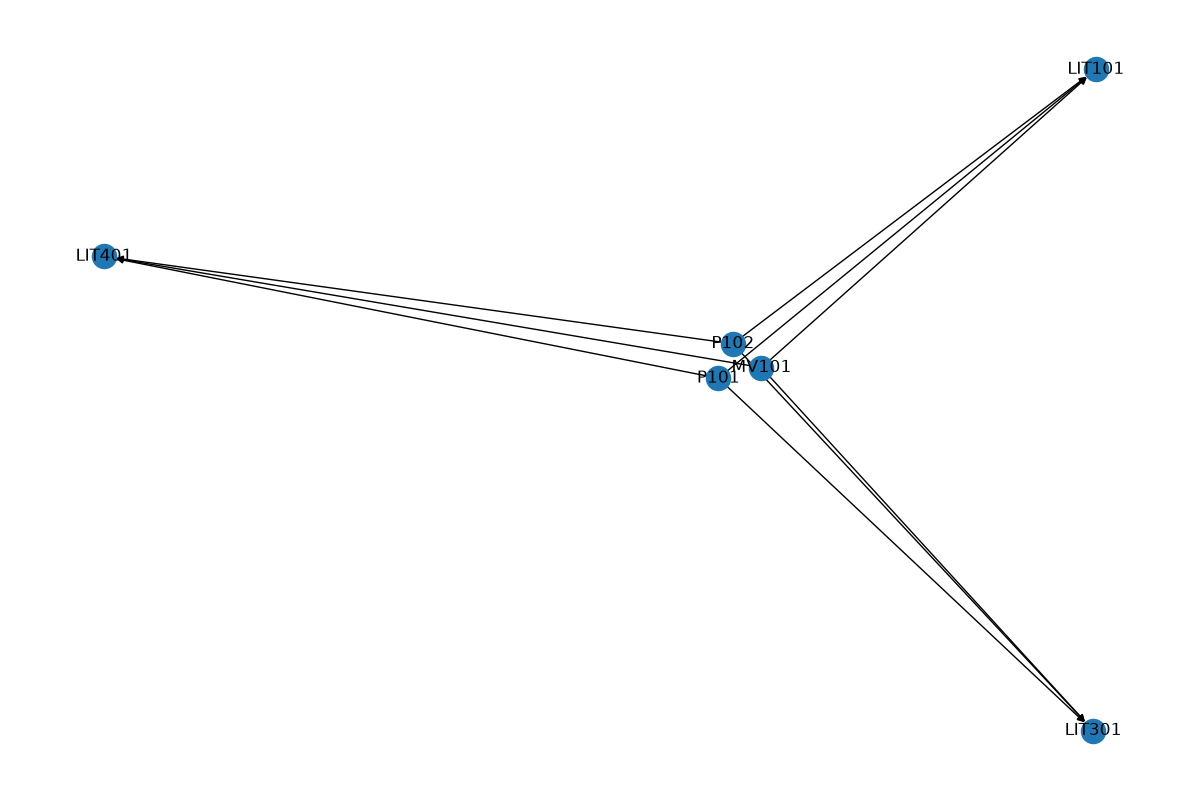
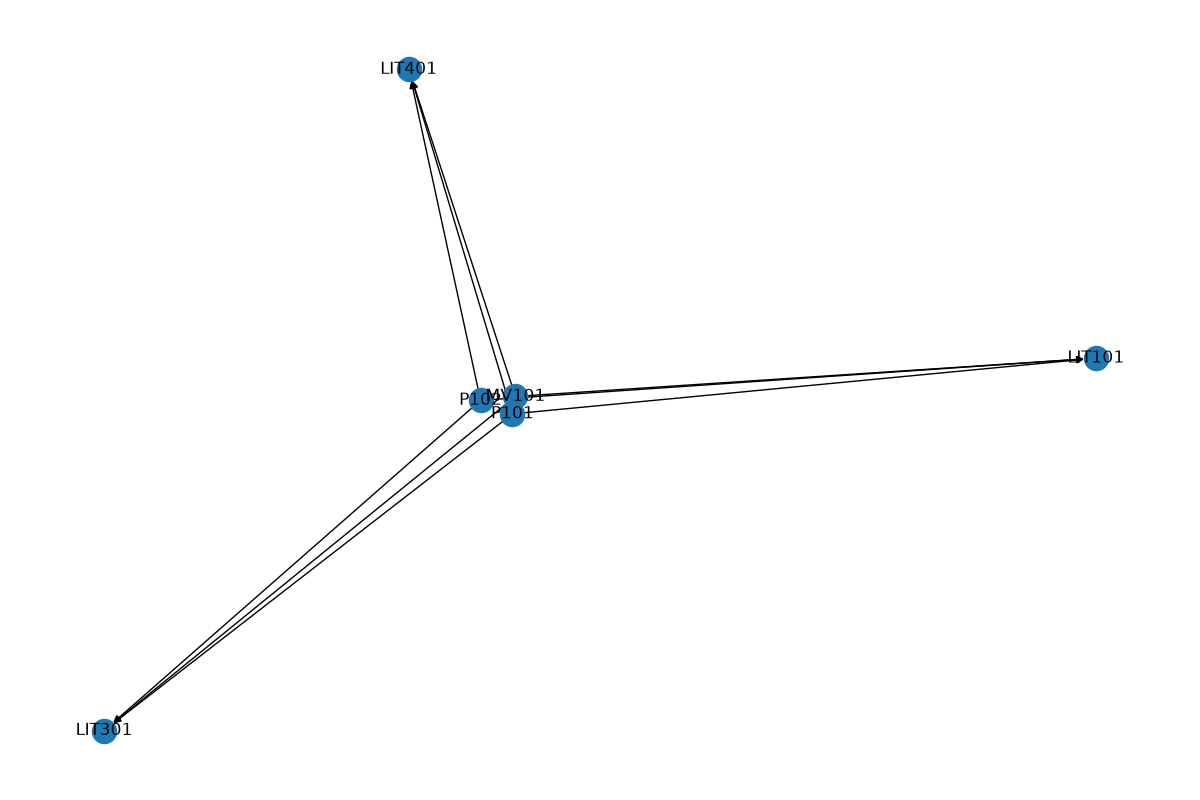
v1 engine done

diff --git a/src/relationship_confidence.py b/src/relationship_confidence.py
@@ -1,0 +1,112 @@
+import pandas as pd
+from asset_classifier import classify_asset
+
+def get_transition_rows(df, asset):
+
+    states = df[asset]
+
+    previous_states = states.shift(1)
+
+    transitions = states != previous_states
+
+    transition_rows = df.index[
+        transitions
+    ].tolist()
+
+    return transition_rows
+
+
+def count_responses(df, source_asset, target_asset, window=5):
+
+    transition_rows = get_transition_rows(df, source_asset)
+
+    if len(transition_rows) == 0:
+        return {
+            "responses": 0,
+            "confidence": 0
+        }
+
+    responses = 0
+
+    for row in transition_rows:
+
+        if row + window >= len(df):
+            continue
+
+        before = df.iloc[row][target_asset]
+
+        after = df.iloc[
+            row + window
+        ][target_asset]
+
+        if before != after:
+            responses += 1
+
+    confidence = (responses / len(transition_rows)) * 100
+
+    return {
+        "responses": responses,
+        "confidence": confidence
+    }
+
+
+def discover_confidence_relationships(df, source_asset, assets, window=5):
+
+    relationships = []
+
+    for asset in assets:
+
+        if asset == source_asset:
+            continue
+
+        result = count_responses(df, source_asset, asset, window)
+
+        relationships.append({
+            "source": source_asset,
+            "target": asset,
+            "responses": result["responses"],
+            "confidence": result["confidence"]
+        })
+
+    report = pd.DataFrame(relationships)
+
+    report = report.sort_values(
+        by="confidence",
+        ascending=False
+    )
+
+    return report
+
+
+def get_assets_in_same_stage(source_asset, assets, max_stage_difference=1):
+    source_info = classify_asset(source_asset)
+
+    source_stage = source_info[
+        "asset_stage"
+    ]
+
+    related_assets = []
+
+    for asset in assets:
+
+        if asset == source_asset:
+            continue
+
+        asset_info = classify_asset(
+            asset
+        )
+
+        asset_stage = asset_info[
+            "asset_stage"
+        ]
+
+        stage_difference = abs(
+            asset_stage - source_stage
+        )
+
+        if stage_difference <= max_stage_difference:
+            related_assets.append(
+                asset
+            )
+
+    return related_assets

diff --git a/src/historian_intelligence.py b/src/historian_intelligence.py
@@ -1,0 +1,82 @@
+from asset_classifier import classify_asset
+from asset_profiler import profile_asset
+
+
+def get_related_assets(
+    relationship_report,
+    asset,
+    top_n=3
+):
+    related = relationship_report[
+        relationship_report["source"] == asset
+    ]
+
+    return related.head(top_n)[
+        "target"
+    ].tolist()
+
+
+def build_asset_intelligence(
+    df,
+    asset,
+    relationship_report,
+    threshold_report
+):
+    asset_info = classify_asset(asset)
+
+    profile_info = profile_asset(
+        df,
+        asset
+    )
+
+    threshold_info = get_threshold_knowledge(threshold_report, asset)
+
+    related_assets = get_related_assets(
+        relationship_report,
+        asset
+    )
+
+    return {
+        "asset": asset,
+        "asset_type": asset_info["asset_type"],
+        "asset_stage": asset_info["asset_stage"],
+        **profile_info,
+        **threshold_info,
+        "related_assets": related_assets
+    }
+
+
+def build_plant_intelligence(df, assets, relationship_report,threshold_report):
+    reports = []
+
+    for asset in assets:
+        report = build_asset_intelligence(df, asset, relationship_report, threshold_report)
+        reports.append(report)
+
+    return reports
+
+def get_threshold_knowledge(threshold_report, asset):
+
+    row = threshold_report[
+        threshold_report["Actuator"] == asset
+    ]
+
+    if row.empty:
+        return {
+            "start_threshold": None,
+            "stop_threshold": None,
+            "process_variable": None
+        }
+
+    row = row.iloc[0]
+
+    return {
+        "process_variable":
+            row["Process Variable"],
+
+        "start_threshold":
+            row["Fall Median"],
+
+        "stop_threshold":
+            row["Rise Median"]
+    }

diff --git a/src/main.py b/src/main.py
@@ -19,6 +19,10 @@ from process_graph import (
     save_process_graph
 )
 
+from historian_intelligence import *
+
+from relationship_confidence import *
+
 # ==================================
 # LOAD DATASET
 # ==================================
@@ -115,6 +119,24 @@ master_report.to_csv(
     index=False
 )
 
+print("\nGenerating Historian Intelligence Report...")
+
+plant_intelligence = build_plant_intelligence(
+    df,
+    assets,
+    master_report,
+    threshold_report
+)
+
+pd.DataFrame(
+    plant_intelligence
+).to_csv(
+    "./reports/historian_intelligence_report.csv",
+    index=False
+)
+
+print("\nHistorian Intelligence Report Saved.")
+
 print("\nMASTER REPORT")
 print("=============")
 
@@ -126,6 +148,20 @@ print(
     f"\nRelationship Discovery Time: "
     f"{end_time - start_time:.2f} seconds"
 )
+
+
+
+plant_intelligence = (
+    build_plant_intelligence(
+        df,
+        assets,
+        master_report,
+        threshold_report
+    )
+)
+
+print ("Plant intellignece")
+print(plant_intelligence)
 
 # ==================================
 # PROCESS GRAPH
@@ -145,3 +181,29 @@ save_process_graph(
 print("\nProcess graph saved.")
 
 print("\nDone.")
+
+print("\nCONFIDENCE RELATIONSHIPS")
+print("========================")
+
+candidate_assets = get_assets_in_same_stage(
+    "P101",
+    assets
+)
+
+confidence_report = discover_confidence_relationships(
+    df,
+    "P101",
+    candidate_assets
+)
+
+print(candidate_assets)
+print(f"Total Candidates: {len(candidate_assets)}")
+
+print(
+    confidence_report.head(20)
+)
+
+confidence_report.to_csv(
+    "./reports/p101_confidence_report.csv",
+    index=False
+)
